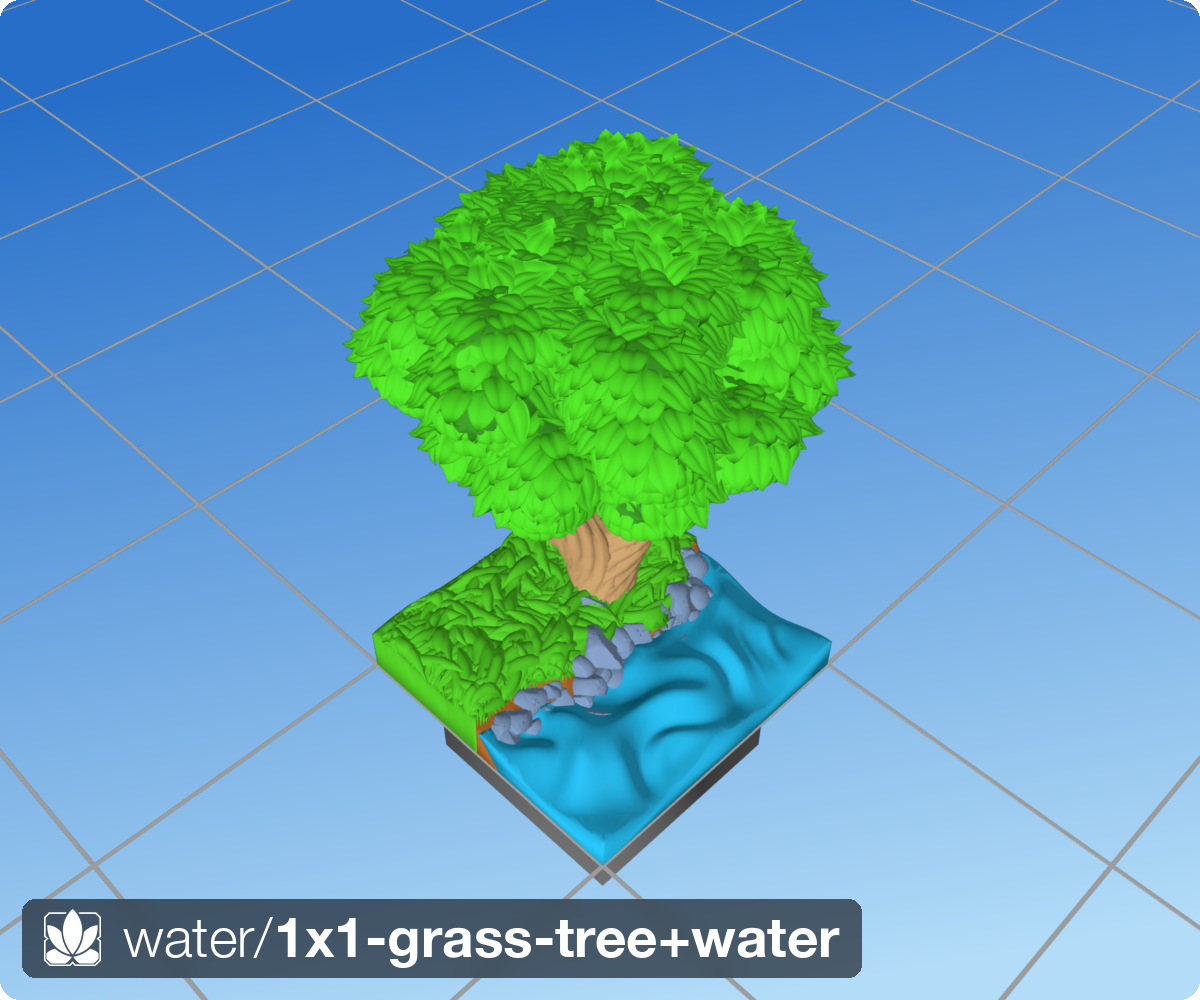
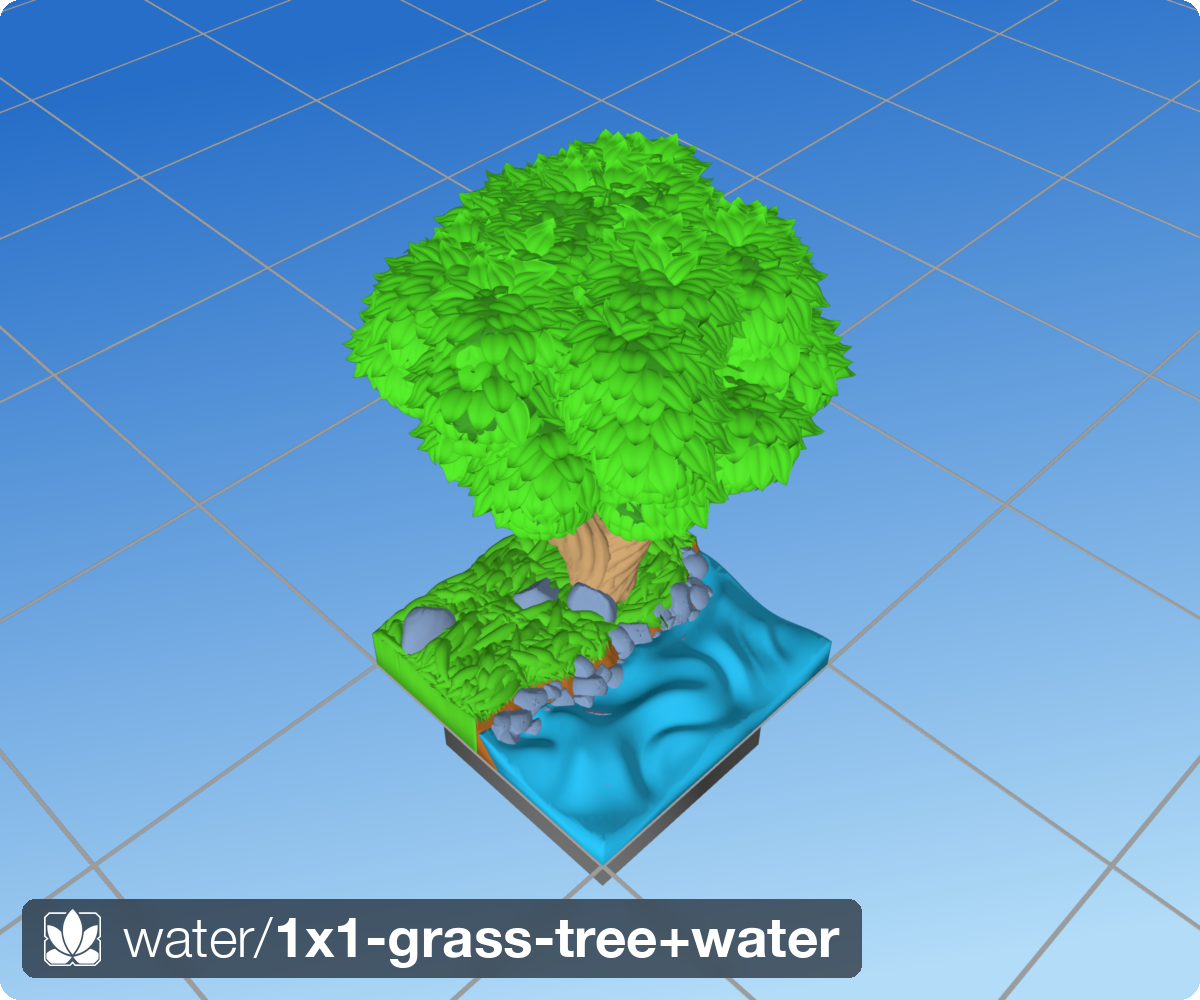
Crown-rule rocks for 1x1-grass-tree+water meadow
Meadow rocks were sized for the old flat grass (r 2.0-3.5 with default
flat/sink -> ~0.6-2mm crowns) and drowned under the thatch's mounds and
blade stack.  Applied the documented crown rule (r*flat - sink must beat
mounds + stack, ~3.4mm): r=D[3.2:4.4].power(1.3), flat=D[1.35:1.6],
sink=0.3, shallow cuts.  Verified crowns +0.20/+0.82/+1.15mm above
nearby grass.  swrender: --no-tree flag to inspect ground under canopies.

Changed region(s): [[0.3083, 0.527, 0.5858, 0.713]]

diff --git a/src/tiles/water/1x1-grass-tree+water.tile.py b/src/tiles/water/1x1-grass-tree+water.tile.py
@@ -51,9 +51,16 @@ tile = Tile(
                 # Obstacle-stampers (Rocks, Tree) run before the carpet and
                 # grass: carpet tubes end at footprints instead of being
                 # impaled, and the thatch skirts/deflects around them.
+                # Crown rule for rocks in thatch grass: exposed height
+                # r*flat - sink must beat mounds + blade stack (~3.4 mm),
+                # or the stones drown in the grass.
                 Rocks(
-                    r=D[2.0:3.5],
-                    placement=Uniform(count_per_square=4),
+                    r=D[3.2:4.4].power(1.3),
+                    flat=D[1.35:1.6],
+                    sink=0.3,
+                    n_cuts=5,
+                    cut=D[0.82:0.96],
+                    placement=Uniform(count_per_square=3, gap_mm=7),
                 ),
                 Tree(
                     height_mm=35.0,

diff --git a/src/extras/swrender.py b/src/extras/swrender.py
@@ -22,6 +22,8 @@ def main():
     p.add_argument('--elev', type=float, default=40.0)
     p.add_argument('--azim', type=float, default=-135.0)
     p.add_argument('--width', type=int, default=1000)
+    p.add_argument('--no-tree', action='store_true',
+                   help='skip WOOD/FOLIAGE/LEAF parts (see the ground under a canopy)')
     p.add_argument('--box', type=float, nargs=4, default=None,
                    metavar=('X0','Y0','X1','Y1'),
                    help='crop: only render faces whose centroid xy (mm) is in box')
@@ -45,6 +47,8 @@ def main():
     verts_all, faces_all, cols_all = [], [], []
     off = 0
     for m in meshes:
+        if args.no_tree and m.metadata.get('material') in (6, 7, 8):
+            continue
         v, f = m.vertices, m.faces
         verts_all.append(v); faces_all.append(f + off); off += len(v)
         fc = getattr(m.visual, 'face_colors', None)
